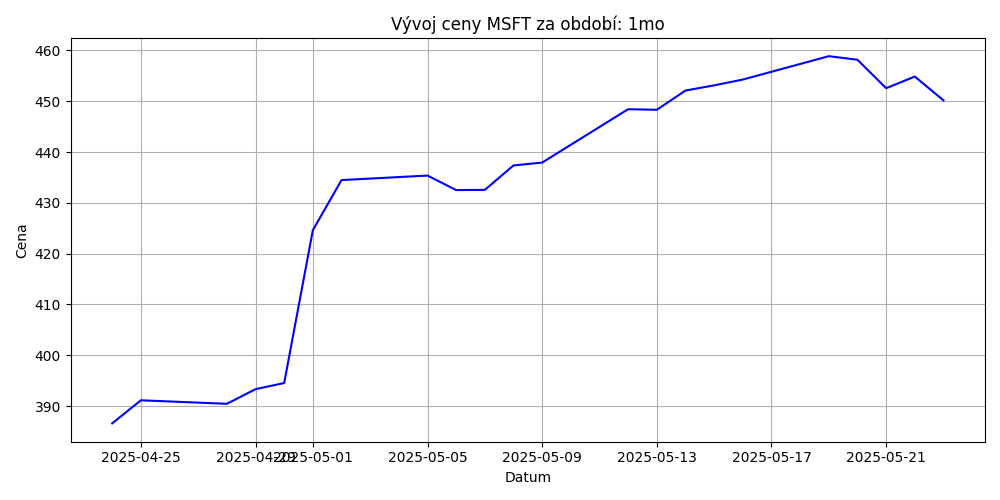
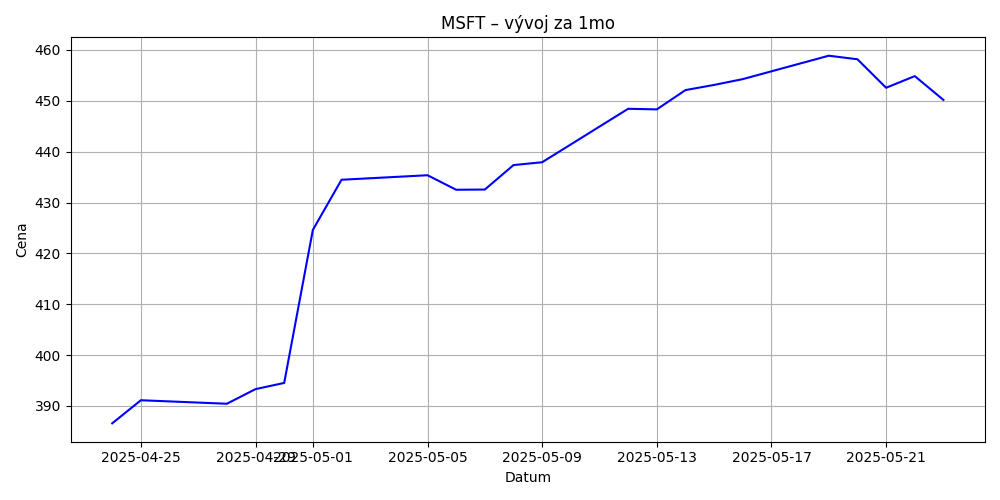
edit

diff --git a/templates/index.html b/templates/index.html
@@ -17,8 +17,8 @@
     <!-- Rychlá volba populárních akcií -->
     <h3>📌 Oblíbené:</h3>
     <form method="POST">
-        {% for symbol in ["AAPL", "MSFT", "GOOGL", "TSLA", "AMZN", "META"] %}
-            <button name="ticker" value="{{ symbol }}">{{ symbol }}</button>
+        {% for ticker in ["AAPL", "MSFT", "GOOGL", "TSLA", "AMZN", "META"] %}
+            <button name="ticker" value="{{ ticker }}">{{ ticker }}</button>
         {% endfor %}
     </form>
 
@@ -41,7 +41,7 @@
         <!-- Výběr časového období -->
         <h2>Graf vývoje ceny</h2>
         <form method="POST">
-            <input type="hidden" name="ticker" value="{{ stock_info['Ticker'] }}">
+            <input type="hidden" name="ticker" value="{{ selected_ticker }}">
             <div style="display: flex; gap: 10px; flex-wrap: wrap; justify-content: center;">
                 {% for period, label in [
                     ("1d", "1 den"),

diff --git a/static/style.css b/static/style.css
@@ -25,7 +25,7 @@ form button:hover {
 }
 
 button.active {
-    background-color: green !important;
+    background-color: rgb(21, 2, 196);
 }
 
 table {

diff --git a/stock.py b/stock.py
@@ -2,17 +2,34 @@
 import yfinance as yf
 import matplotlib.pyplot as plt
 import os
+from abc import ABC, abstractmethod
 
-class Stock:
-    def __init__(self, ticker: str):
+class Asset(ABC):
+    def __init__(self, ticker):
         self.ticker = ticker.upper()
+
+    @abstractmethod
+    def get_price(self):
+        pass
+
+    @abstractmethod
+    def create_price_chart(self, period="1mo"):
+        pass
+
+class Stock(Asset):
+    popular_tickers = ["AAPL", "MSFT", "TSLA", "GOOGL"]
+
+    def __init__(self, ticker):
+        super().__init__(ticker)
         self.data = yf.Ticker(self.ticker)
 
+    def get_price(self):
+        return self.data.info.get("regularMarketPrice")
+    
     def get_info(self):
         info = self.data.info
         return {
             "Název": info.get("shortName", "Neznámý"),
-            "Ticker": self.ticker,
             "Odvětví": info.get("industry", "N/A"),
             "Aktuální cena": info.get("currentPrice", "N/A"),
             "Změna (%)": round(info.get("regularMarketChangePercent", 0), 2),
@@ -20,25 +37,21 @@ class Stock:
             "Burza": info.get("exchange", "N/A")
         }
 
-    def create_price_chart(self, period="1mo", filename="static/chart.png"):
+    def create_price_chart(self, period="1mo"):
         interval_map = {
-        "1d": "5m",     # pro 1 den: 5 minut
-        "5d": "15m",    # pro 5 dní: 15 minut
-        "1mo": "1d",
-        "3mo": "1d",
-        "6mo": "1d",
-        "1y": "1d"
+            "1d": "5m", "5d": "15m", "1mo": "1d", "3mo": "1d",
+            "6mo": "1d", "1y": "1d", "2y": "1wk", "5y": "1wk", "10y": "1mo"
         }
         interval = interval_map.get(period, "1d")
-
         hist = self.data.history(period=period, interval=interval)
+
         if hist.empty:
-            print(f"[WARN] Žádná data pro {self.ticker} při periodě {period} a intervalu {interval}")
+            print(f"[WARN] Žádná data pro {self.ticker} při periodě {period}")
             return None
 
         plt.figure(figsize=(10, 5))
-        plt.plot(hist.index, hist["Close"], label="Závěrečná cena", color="blue")
-        plt.title(f"Vývoj ceny {self.ticker} za období: {period}")
+        plt.plot(hist.index, hist["Close"], label="Cena", color="blue")
+        plt.title(f"{self.ticker} – vývoj za {period}")
         plt.xlabel("Datum")
         plt.ylabel("Cena")
         plt.grid(True)

diff --git a/app.py b/app.py
@@ -10,10 +10,14 @@ def index():
     stock_info = None
     error = None
     chart_url = None
+    selected_ticker = None
+    selected_period = None
 
     if request.method == 'POST':
         ticker = request.form.get('ticker')
         selected_period = request.form.get('period', '1mo')
+        selected_ticker = ticker
+        
         try:
             stock = Stock(ticker)
             stock_info = stock.get_info()
@@ -23,7 +27,7 @@ def index():
         except Exception as e:
             error = f"Chyba: {str(e)}"
 
-    return render_template('index.html', stock_info=stock_info, error=error, chart_url=chart_url)
+    return render_template('index.html', stock_info=stock_info, error=error, chart_url=chart_url, selected_ticker=selected_ticker, selected_period=selected_period)
 
 if __name__ == '__main__':
     app.run(debug=True)
